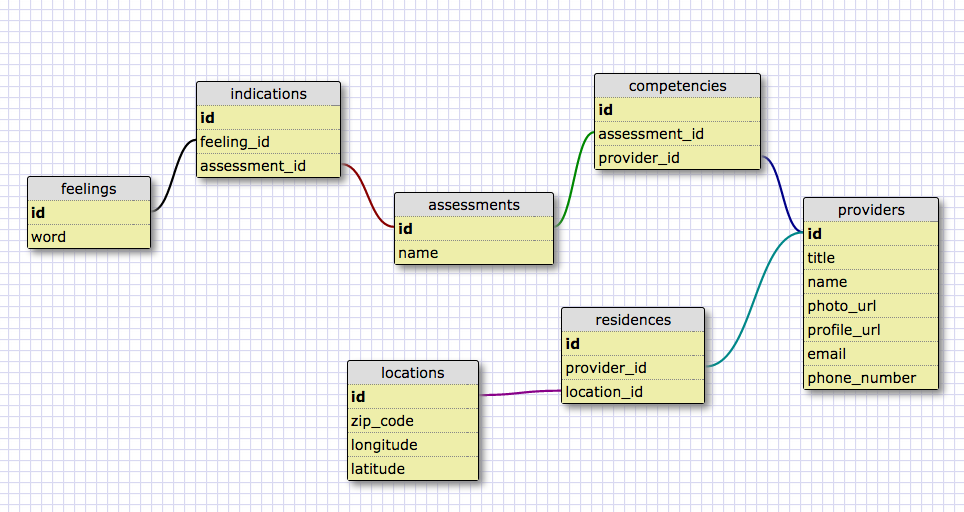
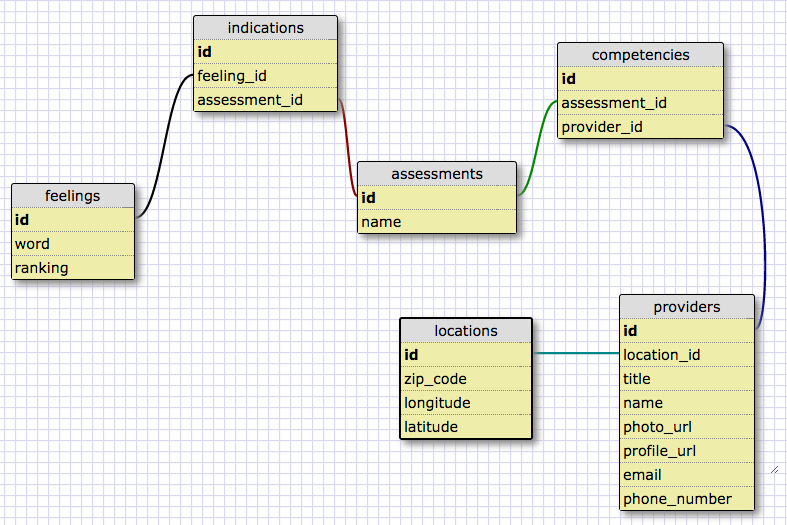
slight update

diff --git a/app/controllers/providers_controller.rb b/app/controllers/providers_controller.rb
@@ -2,15 +2,14 @@ class ProvidersController < ApplicationController
   def index
     feelings = params[:feelings].map{|word| Feeling.find_by(word: word)}
     # if params[:location]
-    #   # locations = Location.near(params[:location], params[:distance])
+    #
+    #   locations = Location.near(params[:location], params[:distance])
     # else
     #   locations = Location.near([request.location.latitude, request.location.longitude], 5)
     # end
-    locations = Location.near(60606.to_s, 2)
+    location = Location.find_by(zip_code: 60606.to_s)
+    locations = location.nearbys(1)
     assessments = Assessment.determine_prevalent(feelings)
-
-    # @secondary_feelings = Feeling.select(2, assessments) #unless feelings.any?{|feel| feel.ranking >= 2}
-    # @tertiary_feelings = Feeling.select(3, assessments) #unless feelings.all?{|feel| feel.ranking == 1}
     @feelings = assessments.map{|a| a.secondary_feelings}.flatten.uniq if feelings.first.ranking == 1
     @feelings = assessments.map{|a| a.tertiary_feelings}.flatten.uniq if feelings.first.ranking == 2
     @providers = Provider.match(assessments, locations)
